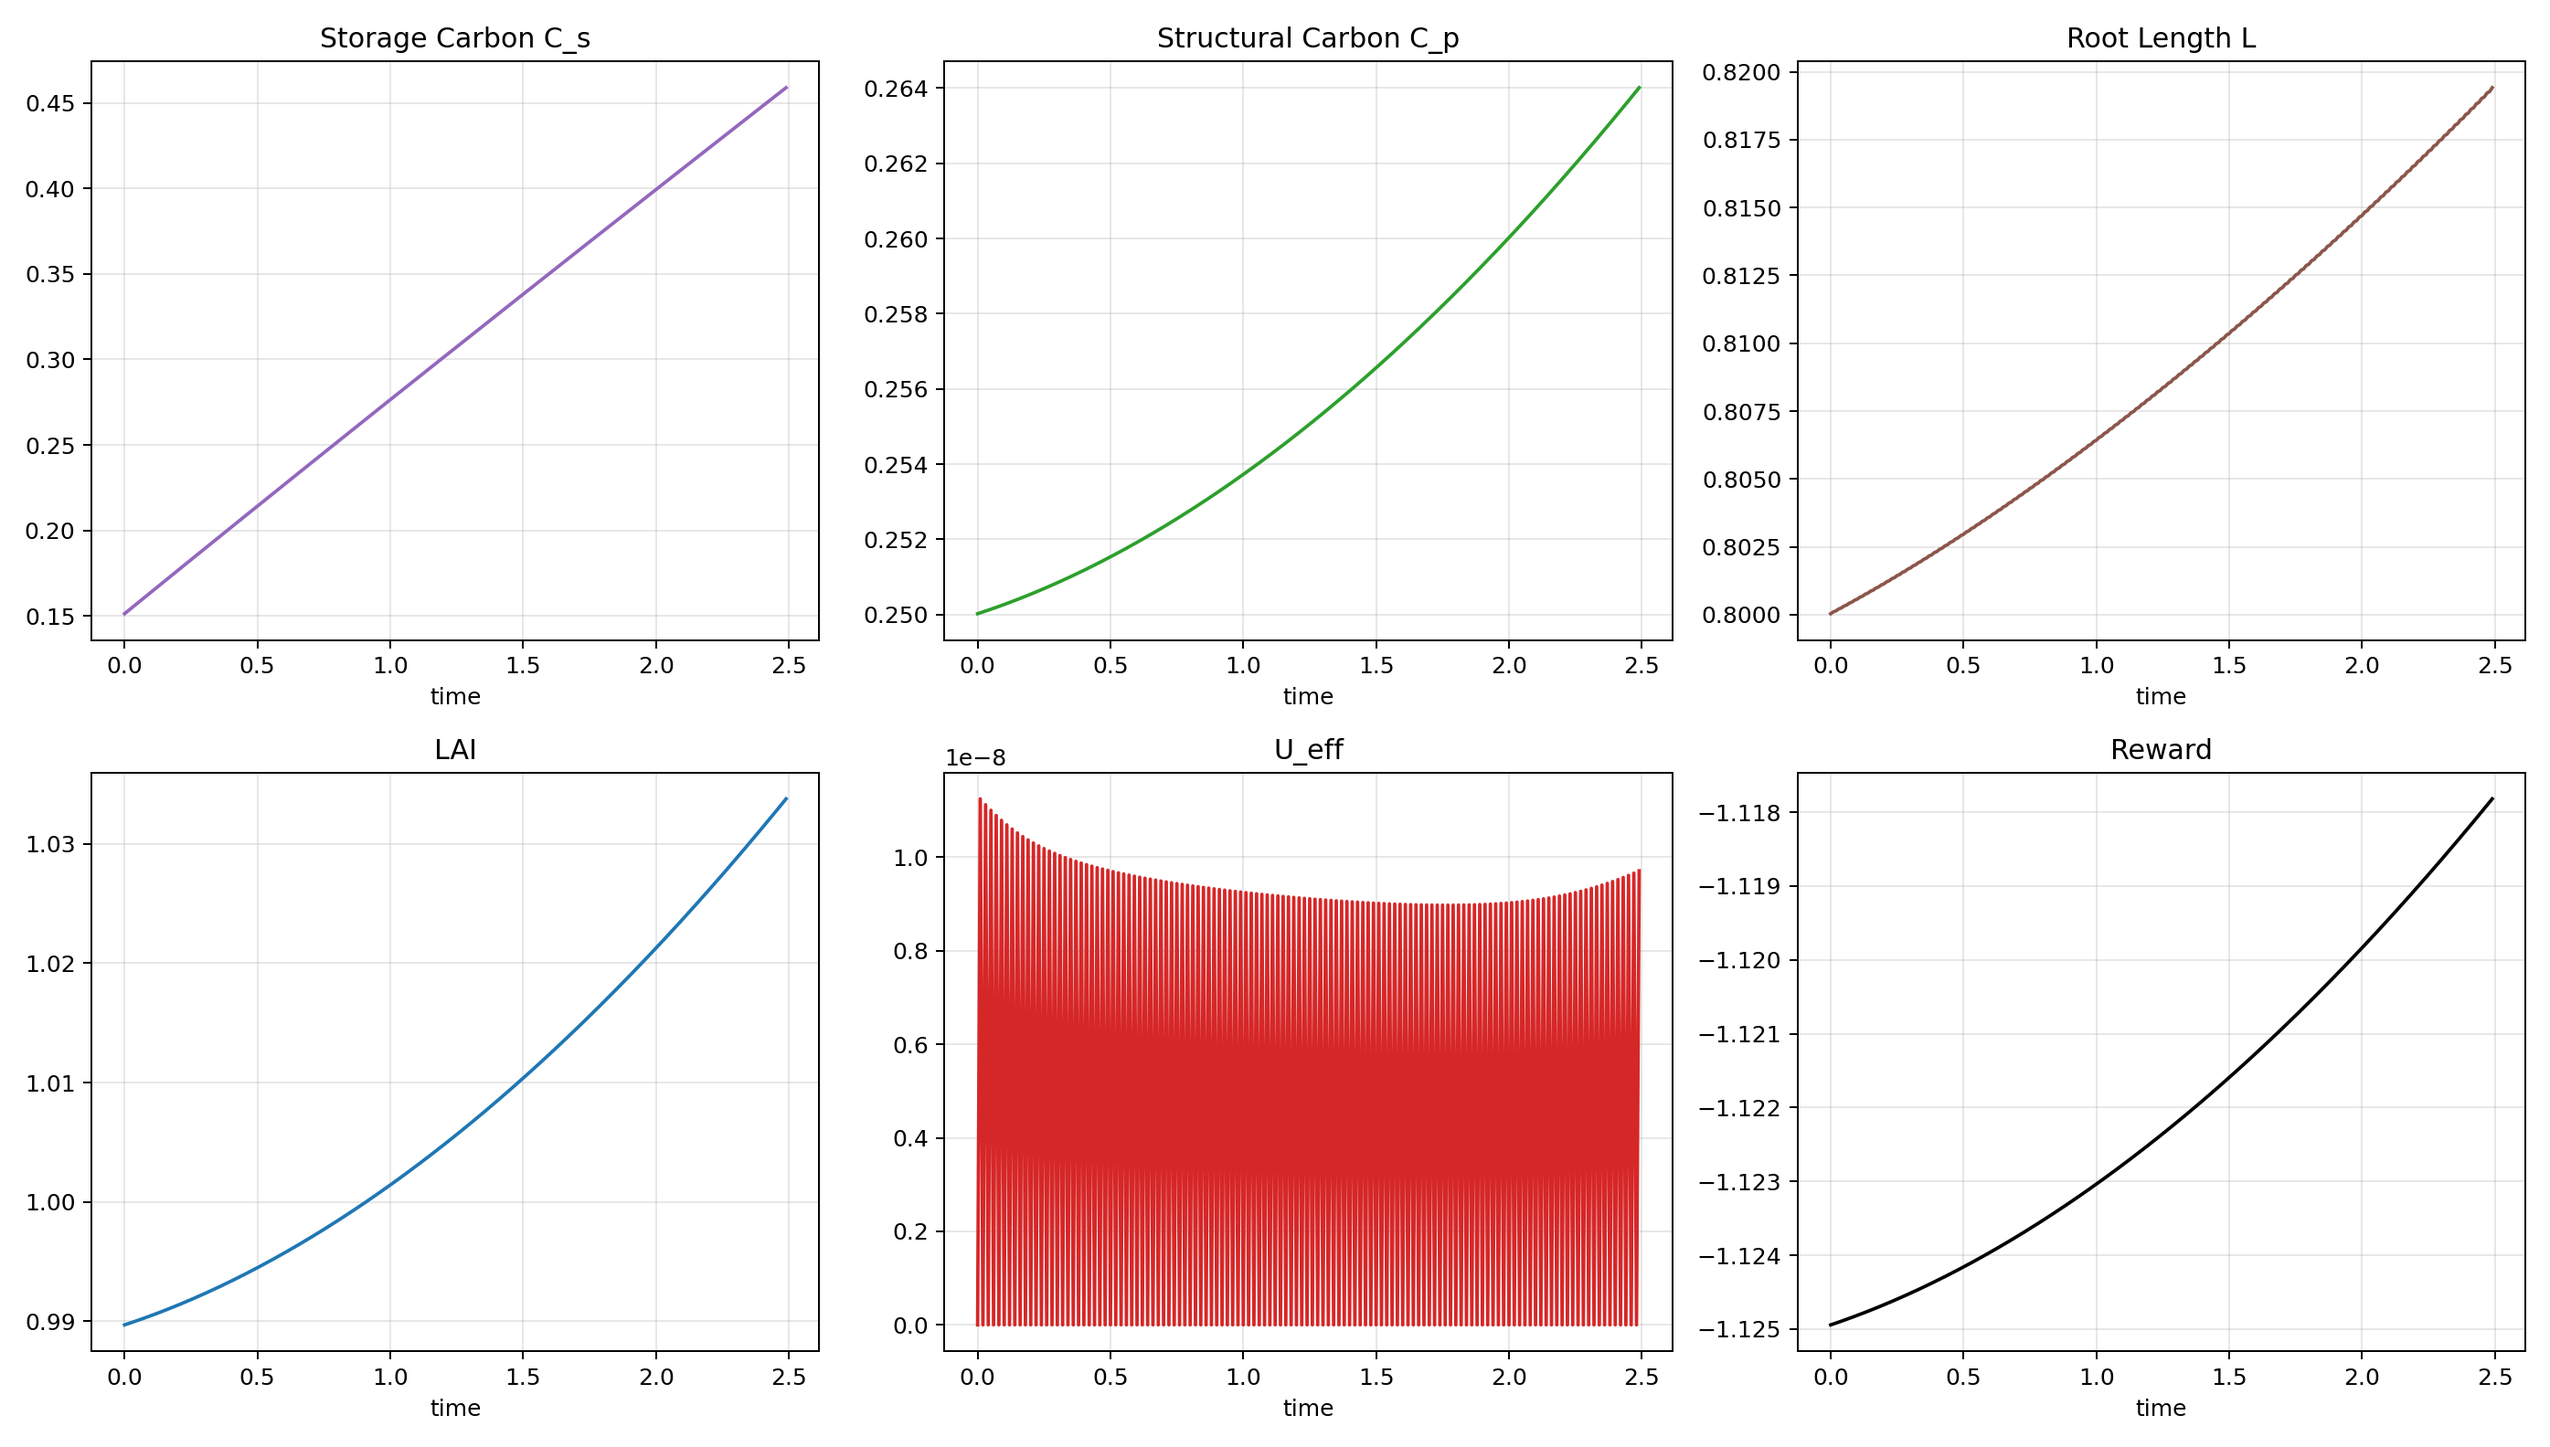
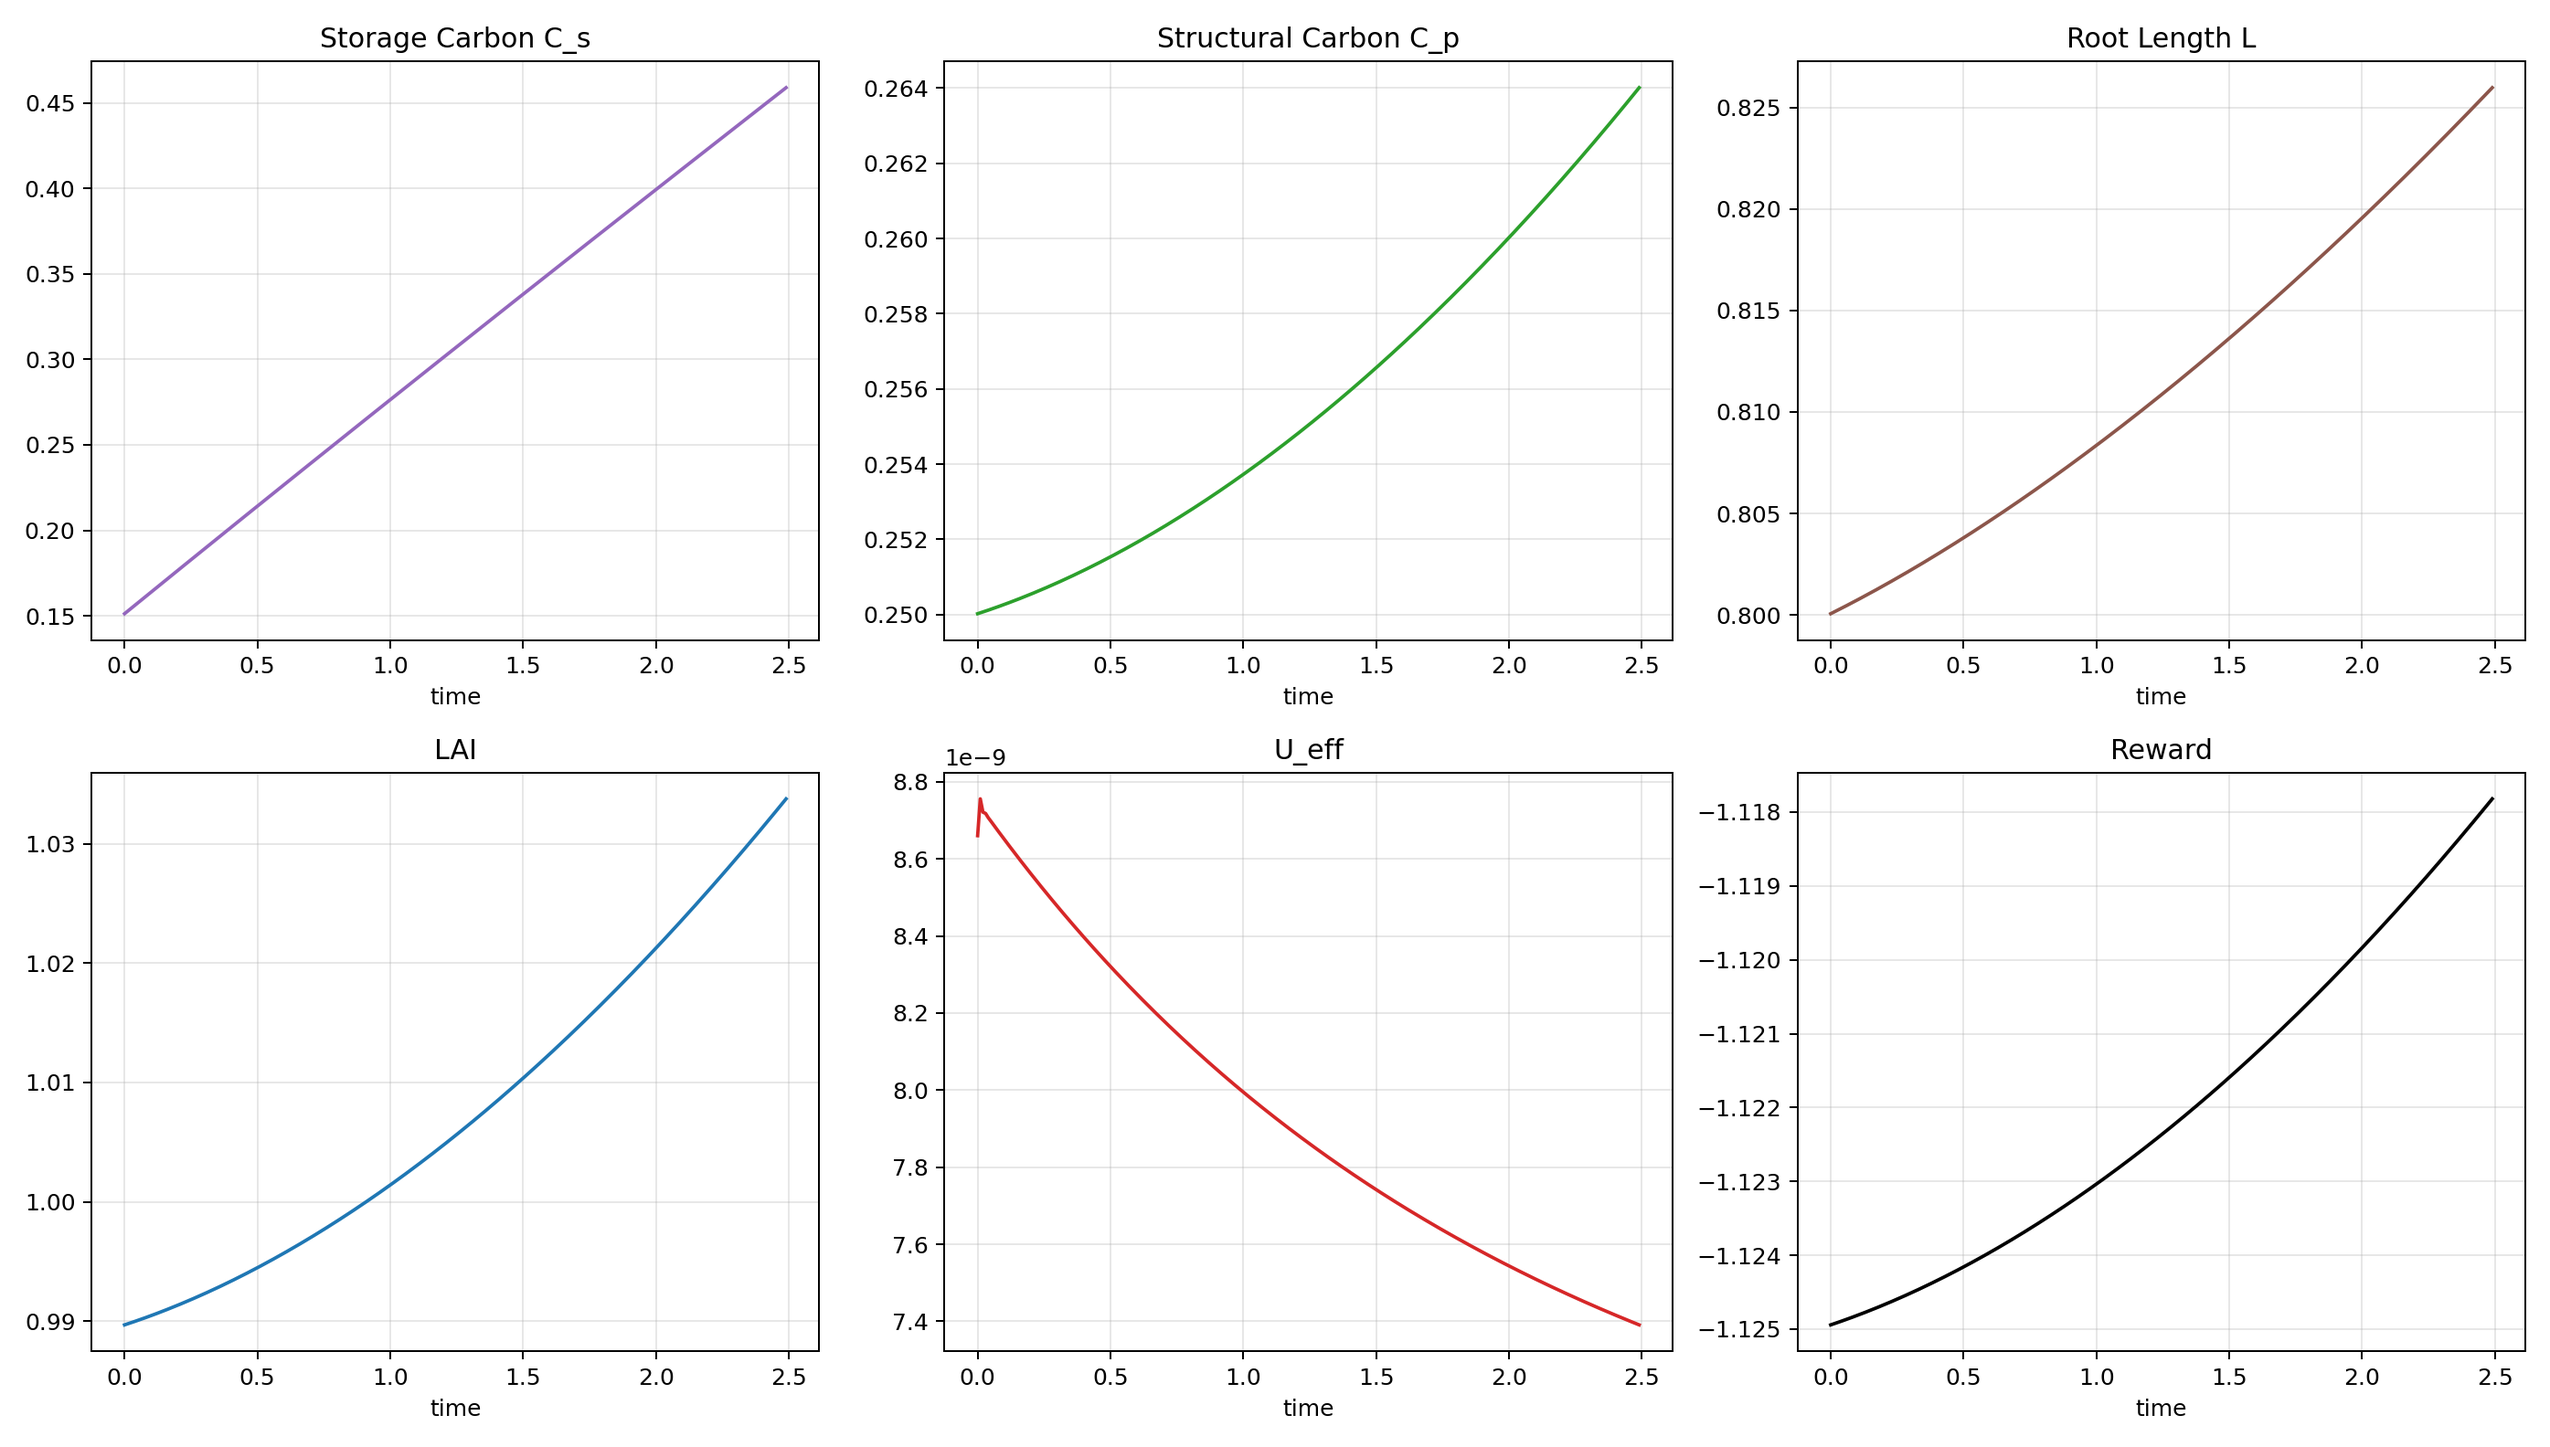
update

diff --git a/maths/nutrients.py b/maths/nutrients.py
@@ -43,6 +43,7 @@ def update_nutrient_dynamics(state, action, params, dt=0.01):
 
     Nr = len(r)
     dr = r[1] - r[0]
+    root_zone_cells = max(1, int(params.get("root_zone_cells", 3)))
 
     r0 = params["r0"]
 
@@ -106,18 +107,30 @@ def update_nutrient_dynamics(state, action, params, dt=0.01):
         # ----------------------------
         idx = np.argmin(np.abs(r - r0))
 
+        if idx == 0:
+            C_root = float(np.mean(C[:min(root_zone_cells, Nr)]))
+        else:
+            i0 = max(0, idx - root_zone_cells // 2)
+            i1 = min(Nr, i0 + root_zone_cells)
+            C_root = float(np.mean(C[i0:i1]))
+
         uptake = (
             Imax[nutrient]
-            * C[idx]
-            / (Km[nutrient] + C[idx])
+            * C_root
+            / (Km[nutrient] + C_root + 1e-12)
         )
 
-        C_new[idx] -= dt * uptake * L
+        # If root is at the first grid node, uptake is enforced through the
+        # root-surface flux boundary below (avoid double-counting sink).
+        if idx != 0:
+            C_new[idx] -= dt * uptake * L
 
         # Root-surface flux BC at r0:
         # -D_i dC_i/dr = Imax_i*C_i0/(Km_i + C_i0)
         uptake_flux = uptake
-        C_new[0] = max(C_new[1] - dr * uptake_flux / (D[nutrient] + 1e-12), 0.0)
+        max_flux_from_gradient = D[nutrient] * C_new[1] / (dr + 1e-12)
+        uptake_flux = min(uptake_flux, 0.95 * max_flux_from_gradient)
+        C_new[0] = C_new[1] - dr * uptake_flux / (D[nutrient] + 1e-12)
 
         # ----------------------------
         # Boundary conditions

diff --git a/maths/root_length.py b/maths/root_length.py
@@ -13,11 +13,21 @@ def compute_total_uptake(state, params):
     r0 = params["r0"]
 
     idx = np.argmin(np.abs(r - r0))
+    root_zone_cells = max(1, int(params.get("root_zone_cells", 3)))
+
+    # Use a small root-zone average rather than a single node to reduce
+    # grid-level oscillations at the root boundary.
+    if idx == 0:
+        sl = slice(0, min(root_zone_cells, len(r)))
+    else:
+        i0 = max(0, idx - root_zone_cells // 2)
+        i1 = min(len(r), i0 + root_zone_cells)
+        sl = slice(i0, i1)
 
     concentrations = {
-        "N": state["C_N"][idx],
-        "P": state["C_P"][idx],
-        "K": state["C_K"][idx],
+        "N": float(np.mean(state["C_N"][sl])),
+        "P": float(np.mean(state["C_P"][sl])),
+        "K": float(np.mean(state["C_K"][sl])),
     }
 
     Imax = {
